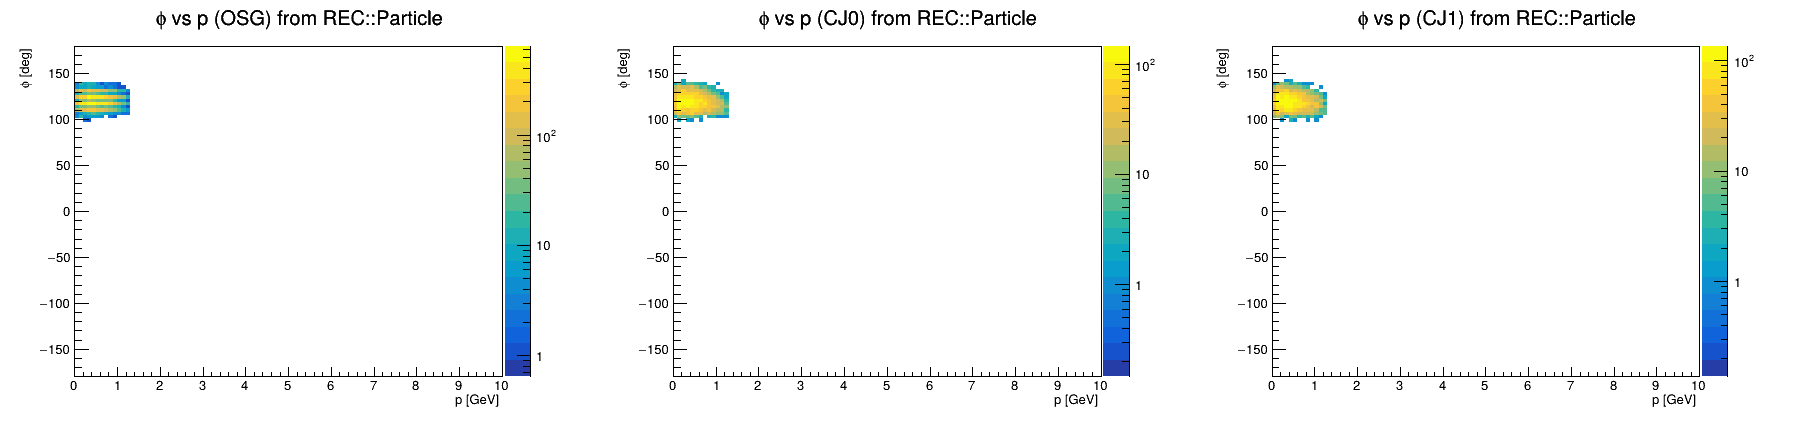
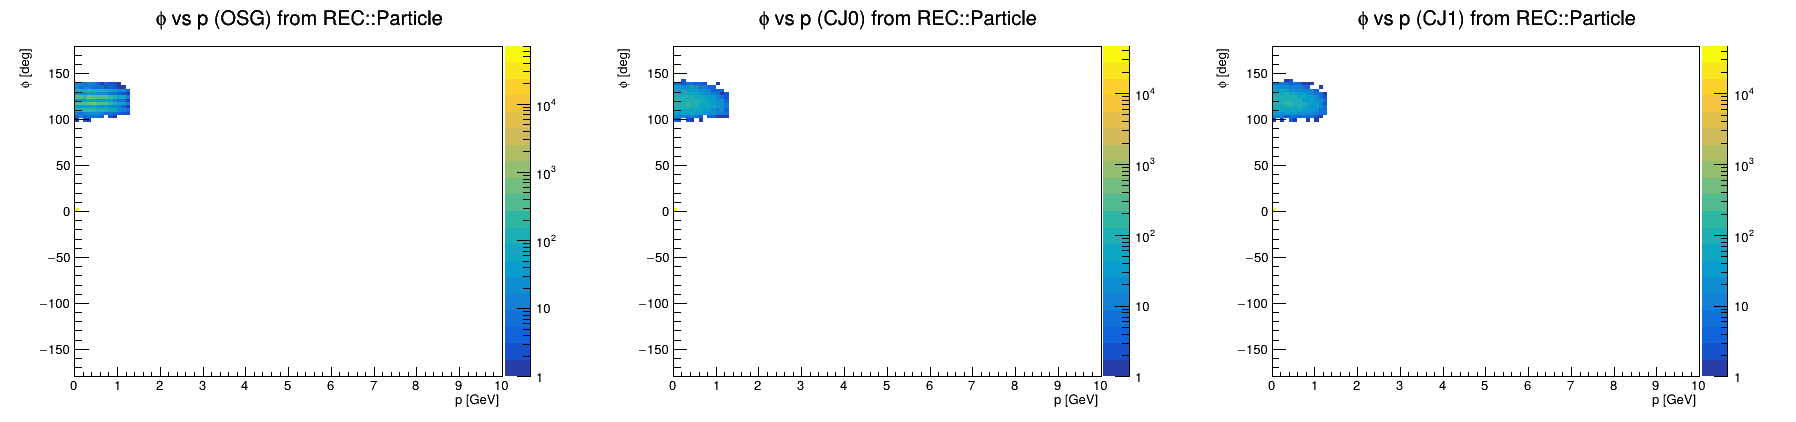
✨ Analisys without minumum pt of 0.05 for REC::Particles and no minimum P magnitude of 1e-6 for MC::Partcile

diff --git a/compare_cnd_versions.C b/compare_cnd_versions.C
@@ -164,8 +164,8 @@ MatchResult match_neutron_rec_to_mc(const TVector3 &pREC,
         const float pz = MCPT.getFloat("pz", imc);
 
         TVector3 pMC(px, py, pz);
-        if (pMC.Mag() < 1e-6)
-            continue; // skip zero-momentum
+        // if (pMC.Mag() < 1e-6)
+        //     continue; // skip zero-momentum
 
         const float ang = pREC.Angle(pMC) * TMath::RadToDeg();
 
@@ -358,8 +358,8 @@ void process_chain(TChain *chain, Hists &h, const char *tag, int maxEvents = 300
                 TVector3 pREC(px, py, pz);
                 const float pt_rec = std::sqrt(px * px + py * py);
 
-                if (pt_rec < pt_min)
-                    continue; // too low momentum
+                // if (pt_rec < pt_min)
+                //     continue; // too low momentum
 
                 MatchResult match = match_neutron_rec_to_mc(pREC, MCPT, /*maxAngleDeg=*/10.0);
                 if (match.mcIndex < 0)
